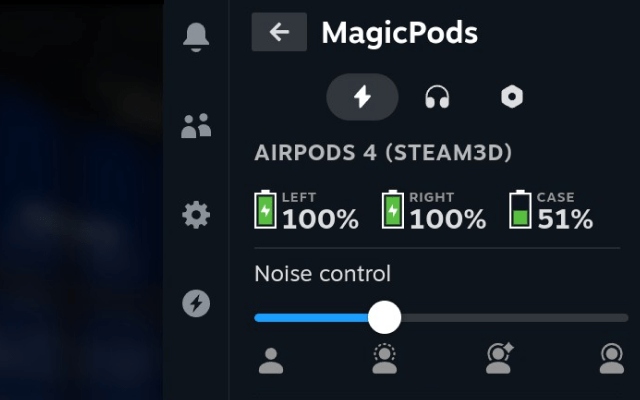
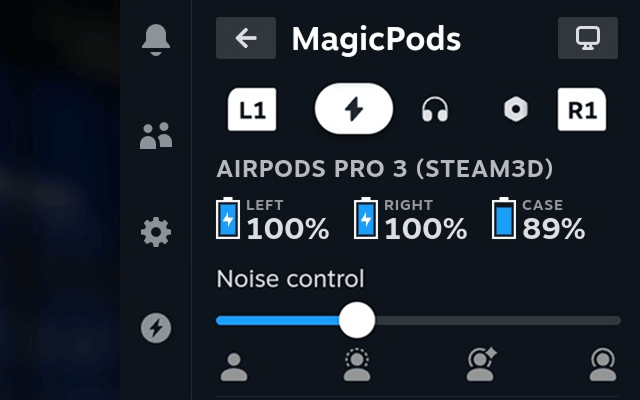
Updated README.md

diff --git a/README.md b/README.md
@@ -1,101 +1,149 @@
-# MagicPods✨ for Steam Deck
+# MagicPods✨ for Steam Deck & Steam Machine
 
-A magic plugin for the Decky Loader that allows you to control your AirPods and Beats headphones in a comfortable way.
+A magic plugin for Decky Loader that lets you easily control your AirPods, Beats, Galaxy Buds, and Pixel Buds right from Steam Gaming Mode.
 
-![](./docs/images/screenshot-1.png)
+![](./docs/images/screenshot-0.png)
+
+<details>
+<summary>Screenshots</summary>
+
+<p align="center">
+  <a href="./docs/images/screenshot-1.png">
+    <img src="./docs/images/screenshot-1.png" width="32%">
+  </a>
+  <a href="./docs/images/screenshot-2.png">
+    <img src="./docs/images/screenshot-2.png" width="32%">
+  </a>
+  <a href="./docs/images/screenshot-3.png">
+    <img src="./docs/images/screenshot-3.png" width="32%">
+  </a>
+  <a href="./docs/images/screenshot-4.png">
+    <img src="./docs/images/screenshot-4.png" width="32%">
+  </a>
+  <a href="./docs/images/screenshot-5.png">
+    <img src="./docs/images/screenshot-5.png" width="32%">
+  </a>
+  <a href="./docs/images/screenshot-6.png">
+    <img src="./docs/images/screenshot-6.png" width="32%">
+  </a>
+</p>
+
+</details>
 
 ## 🎨 Features
 
-🔋 Battery level  
-⚙ Noise control  
-🎧 Switch Bluetooth codec  
-🔌 Fix headphones disconnects   
-🎉 New features coming soon
+- Battery Monitoring - View headphone battery levels directly in Steam Gaming Mode.
+- Noise Control - Switch between noise cancellation, transparency, adaptive, and other available modes.
+- Bluetooth Management - Connect and disconnect headphones, control Bluetooth, and switch audio codecs.
+- Connection Fixes - Fix headphone disconnection issues.
+- [MagicPods for Linux](https://github.com/steam3d/MagicPodsLinux) Integration - Companion app for Desktop Mode.
 
-### 🔥 Exclusive to AirPods and Beats
+## 🪄 Unlock AirPods & Beats Magic
 
-Additional settings — just like on iPhone and Mac:
+Customize your AirPods and Beats without ever needing an iPhone.
 
-- Audio is lowered during conversation awareness
-- Noise level adjustment in adaptive mode
-- Personalized volume
-- Noise cancellation with one AirPod
-- Press duration adjustment
-- Press and hold duration adjustment
-- Customization of single and double tap for call control
+### HD Microphone
 
-## 🎧 Headphones supported
+- Get significantly better microphone quality on compatible AirPods with the H2 chip compared to standard Bluetooth Hands-Free mode.
 
-| Apple            | Beats                  | Samsung           |
-| ---------------- | ---------------------- | ----------------- |
-| AirPods 1        | PowerBeats Pro         | Galaxy Buds       |
-| AirPods 2        | PowerBeats Pro 2       | Galaxy Buds Plus  |
-| AirPods 3        | PowerBeats 3           | Galaxy Buds Live  |
-| AirPods 4        | PowerBeats 4           | Galaxy Buds Pro   |
-| AirPods 4 (ANC)  | Beats Fit Pro          | Galaxy Buds 2     |
-| AirPods 5        | Beats Studio Buds      | Galaxy Buds 2 Pro |
-| AirPods 5 (WCC)  | Beats Studio Buds Plus | Galaxy Buds FE    |
-| AirPods Pro      | Beats Studio Pro       | Galaxy Buds 3     |
-| AirPods Pro 2    | Beats Solo 3           | Galaxy Buds 3 Pro |
-| AirPods Pro 3    | Beats Solo Pro         |                   |
-| AirPods Max      | Beats Studio 3         |                   |
-| AirPods Max 2024 | Beats X                |                   |
-|                  | Beats Flex             |                   |
-|                  | Beats Solo Buds        |                   |
+### Smart Audio
+
+- Conversation Awareness - Automatically lower audio volume when you start speaking.
+- Personalized Volume - Enable or disable personalized volume adjustments.
+- Ear Detection - Automatically pause and resume playback when removing or wearing your earbuds.
+- Audio Output Switching - Automatically switch between headphones and Steam Deck speakers when supported.
+
+### Noise Control
+
+- Adaptive Audio - Adjust how much outside noise you hear.
+- Noise Cancellation with One AirPod - Enable noise cancellation while wearing a single AirPod.
+- Custom Noise Control Modes - Choose which modes are available when switching directly from your headphones.
+- Off Listening Mode - Enable or disable the Off listening mode on compatible AirPods.
+
+### Controls & Gestures
+
+- Customize press-and-hold actions for each earbud.
+- Adjust press speed and press-and-hold duration.
+- Configure single and double presses for call controls.
+- Customize volume swipe gestures.
+- Change Digital Crown rotation direction on supported AirPods Max models.
+
+### More Settings
+
+- Custom Equalizer - Adjust bass, mids, and treble.
+- Headphone Tones - Adjust the volume of built-in headphone tones.
+- Optimized Charge Limit - Manage charging optimization on compatible models.
+- Pause When Asleep - Configure automatic playback pausing on supported headphones.
+
+*Available features depend on your headphone model and firmware. MagicPods automatically displays only the settings supported by your connected device.*
+
+## 🎧 Supported Headphones
+
+| Apple            | Beats                  | Samsung           | Google              |
+| ---------------- | ---------------------- | ----------------- | ------------------- |
+| AirPods 1        | PowerBeats Pro         | Galaxy Buds       | Pixel Buds A-Series |
+| AirPods 2        | PowerBeats Pro 2       | Galaxy Buds Plus  | Pixel Buds Pro      |
+| AirPods 3        | PowerBeats 3           | Galaxy Buds Live  | Pixel Buds Pro 2    |
+| AirPods 4        | PowerBeats 4           | Galaxy Buds Pro   | Pixel Buds 2a       |
+| AirPods 4 (ANC)  | Beats Fit Pro          | Galaxy Buds 2     |                     |
+| AirPods 5        | Beats Studio Buds      | Galaxy Buds 2 Pro |                     |
+| AirPods 5 (WCC)  | Beats Studio Buds Plus | Galaxy Buds FE    |                     |
+| AirPods Pro      | Beats Studio Pro       | Galaxy Buds 3     |                     |
+| AirPods Pro 2    | Beats Solo 3           | Galaxy Buds 3 Pro |                     |
+| AirPods Pro 3    | Beats Solo Pro         | Galaxy Buds Core  |                     |
+| AirPods Max      | Beats Studio 3         | Galaxy Buds 3 FE  |                     |
+| AirPods Max 2024 | Beats X                | Galaxy Buds 4     |                     |
+| AirPods Max 2    | Beats Flex             | Galaxy Buds 4 Pro |                     |
+|                  | Beats Solo Buds        |                   |                     |
+|                  | Beats Solo 4           |                   |                     |
+|                  | Beats 360              |                   |                     |
+|                  | Powerbeats Fit         |                   |                     |
 
 ## 💾 Installation
 
 ### Using the Decky Store
 
-1. Install [Decky Loader](https://github.com/SteamDeckHomebrew/decky-loader/tree/main?tab=readme-ov-file#-installation)
-2. Switch to steam game mode
-3. Press <img src="./docs/images/dark/qam.svg#gh-light-mode-only" height=16><img src="./docs/images/light/qam.svg#gh-dark-mode-only" height=16>
-4. Go to the tab <img src="./docs/images/dark/plug.svg#gh-light-mode-only" height=16><img src="./docs/images/light/plug.svg#gh-dark-mode-only" height=16>
-5. In the upper right corner, click <img src="./docs/images/dark/store.svg#gh-light-mode-only" height=16><img src="./docs/images/light/store.svg#gh-dark-mode-only" height=16>
-6. Find `MagicPods` in the plugin list or search for it
-7. Press the `Install` button
+1. Install [Decky Loader](https://github.com/SteamDeckHomebrew/decky-loader/tree/main?tab=readme-ov-file#-installation).
+2. Switch to Steam Gaming Mode.
+3. Press <img src="./docs/images/dark/qam.svg#gh-light-mode-only" height="16"><img src="./docs/images/light/qam.svg#gh-dark-mode-only" height="16"> to open the Quick Access Menu.
+4. Open the <img src="./docs/images/dark/plug.svg#gh-light-mode-only" height="16"><img src="./docs/images/light/plug.svg#gh-dark-mode-only" height="16"> Decky Loader tab.
+5. Select <img src="./docs/images/dark/store.svg#gh-light-mode-only" height="16"><img src="./docs/images/light/store.svg#gh-dark-mode-only" height="16"> in the upper-right corner.
+6. Find `MagicPods` in the plugin list or use the search.
+7. Select `Install`.
 
-### Using the Decky developer mode
+### Using Decky Developer Mode
 
-1. Install [Decky Loader](https://github.com/SteamDeckHomebrew/decky-loader/tree/main?tab=readme-ov-file#-installation)
-2. Switch to steam game mode
-3. Press <img src="./docs/images/dark/qam.svg#gh-light-mode-only" height=16><img src="./docs/images/light/qam.svg#gh-dark-mode-only" height=16>
-4. Go to the tab <img src="./docs/images/dark/plug.svg#gh-light-mode-only" height=16><img src="./docs/images/light/plug.svg#gh-dark-mode-only" height=16>
-5. In the upper right corner, click <img src="./docs/images/dark/gear.svg#gh-light-mode-only" height=16><img src="./docs/images/light/gear.svg#gh-dark-mode-only" height=16>
-6. On the General tab, enable developer mode
-7. Go to the Developer tab
-8. Type in the URL `https://magicpods.app/plugin`
-9. Press the Install button
+1. Install [Decky Loader](https://github.com/SteamDeckHomebrew/decky-loader/tree/main?tab=readme-ov-file#-installation).
+2. Switch to Steam Gaming Mode.
+3. Press <img src="./docs/images/dark/qam.svg#gh-light-mode-only" height="16"><img src="./docs/images/light/qam.svg#gh-dark-mode-only" height="16"> to open the Quick Access Menu.
+4. Open the <img src="./docs/images/dark/plug.svg#gh-light-mode-only" height="16"><img src="./docs/images/light/plug.svg#gh-dark-mode-only" height="16"> Decky Loader tab.
+5. Select <img src="./docs/images/dark/gear.svg#gh-light-mode-only" height="16"><img src="./docs/images/light/gear.svg#gh-dark-mode-only" height="16"> in the upper-right corner.
+6. Enable Developer Mode in the General tab.
+7. Open the Developer tab.
+8. Enter `https://magicpods.app/plugin`.
+9. Select `Install`.
 
-## 🚀 Getting started
+## 🚀 Getting Started
 
-Now that you have MagicPods, press <img src="./docs/images/dark/qam.svg#gh-light-mode-only" height=16><img src="./docs/images/light/qam.svg#gh-dark-mode-only" height=16> and go to <img src="./docs/images/dark/plug.svg#gh-light-mode-only" height=16><img src="./docs/images/light/plug.svg#gh-dark-mode-only" height=16> and select <img src="./docs/images/dark/mp.svg#gh-light-mode-only" height=16><img src="./docs/images/light/mp.svg#gh-dark-mode-only" height=16> MagicPods in the installed plugins list.
+After installing MagicPods, open the Quick Access Menu using <img src="./docs/images/dark/qam.svg#gh-light-mode-only" height="16"><img src="./docs/images/light/qam.svg#gh-dark-mode-only" height="16">, go to the <img src="./docs/images/dark/plug.svg#gh-light-mode-only" height="16"><img src="./docs/images/light/plug.svg#gh-dark-mode-only" height="16"> Decky Loader tab, and select <img src="./docs/images/dark/mp.svg#gh-light-mode-only" height="16"><img src="./docs/images/light/mp.svg#gh-dark-mode-only" height="16"> MagicPods.
 
-<img src="./docs/images/dark/mp-charge.svg#gh-light-mode-only" height=16><img src="./docs/images/light/mp-charge.svg#gh-dark-mode-only" height=16> displays information about the current charge level and additional features, if supported by the headphones.  
-<img src="./docs/images/dark/mp-hd.svg#gh-light-mode-only" height=16><img src="./docs/images/light/mp-hd.svg#gh-dark-mode-only" height=16> shows headphones supported by MagicPods, here you can connect/disconnect headphones and control Bluetooth.  
-<img src="./docs/images/dark/mp-sett.svg#gh-light-mode-only" height=16><img src="./docs/images/light/mp-sett.svg#gh-dark-mode-only" height=16> Contains additional features, settings, and other useful information.  
+MagicPods has three main tabs:
 
-All you need to do is select your headphones and connect them, and the charge level and additional features will appear on the <img src="./docs/images/dark/mp-charge.svg#gh-light-mode-only" height=16><img src="./docs/images/light/mp-charge.svg#gh-dark-mode-only" height=16> tab
+- <img src="./docs/images/dark/mp-charge.svg#gh-light-mode-only" height="16"><img src="./docs/images/light/mp-charge.svg#gh-dark-mode-only" height="16"> Battery - View battery levels and additional headphone features.
+- <img src="./docs/images/dark/mp-hd.svg#gh-light-mode-only" height="16"><img src="./docs/images/light/mp-hd.svg#gh-dark-mode-only" height="16"> Headphones - Connect or disconnect supported headphones and manage Bluetooth.
+- <img src="./docs/images/dark/mp-sett.svg#gh-light-mode-only" height="16"><img src="./docs/images/light/mp-sett.svg#gh-dark-mode-only" height="16"> Settings - Explore additional features, preferences, and useful information.
 
-## 🌐 Become a Translator
+Pair your headphones through SteamOS Bluetooth settings first. Then select and connect them in MagicPods to see their battery levels and available features in the Battery tab.
 
-Go to the [MagicPods-SteamDeck](https://weblate.magicpods.app/engage/magicpods-steamdeck/) project. Register (don’t forget to check your Spam folder — the confirmation email might end up there), or suggest translations without creating an account.
+## Known Issues
 
-Use the shortest phrases and abbreviations possible — the Steam interface is very compact. Refer to the screenshots attached to each phrase.
+Bluetooth changes made through MagicPods are not reflected in the Steam interface. The current Bluetooth status is displayed in MagicPods.
 
-## 🧪 Ideas and bugs
+## 💖 Community
 
-In the [Discord](https://discord.com/invite/UyY4PY768V) community you can suggest an idea or report a problem.
+- [Help translate MagicPods](https://weblate.magicpods.app/engage/magicpods-steamdeck/).
+- [Join Discord to suggest features or report bugs](https://discord.com/invite/UyY4PY768V).
+- 💰 [Support the project](https://magicpods.app/donate/).
 
-## 🩼 Known issues
-
-- Hotkeys stop working after opening the controller settings in the Steam menu — the solution is to restart the plugin.
-- When managing Bluetooth through the plugin, changes are not visible in the Steam interface — the current Bluetooth status is shown only in MagicPods.
-
-## 💰 Donate
-
-[Support the project here](https://magicpods.app/donate/) — every bit helps ❤
-
-## 💖 Developers
-
-Developed by [Aleksandr Maslov](https://github.com/steam3d/) and [Andrey Litvintsev](https://github.com/andreylitvintsev)
+---
+Developed by [Aleksandr Maslov](https://github.com/steam3d/) and [Andrey Litvintsev](https://github.com/andreylitvintsev).
